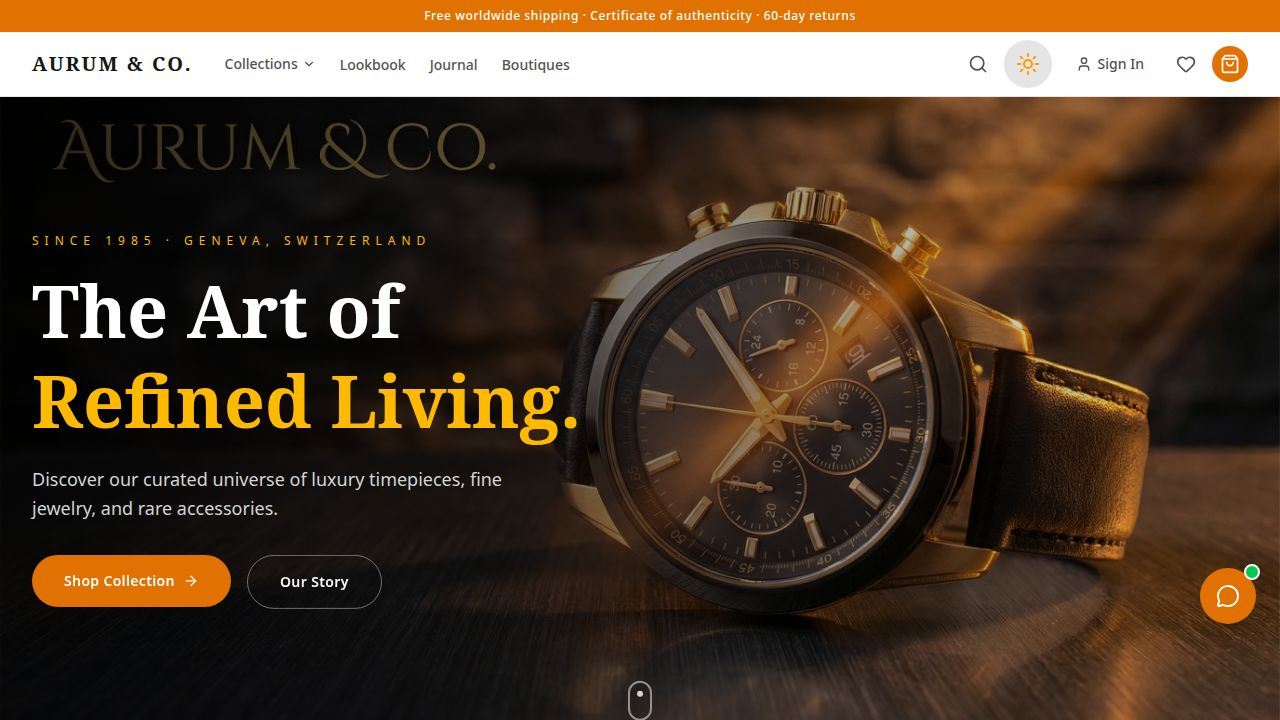
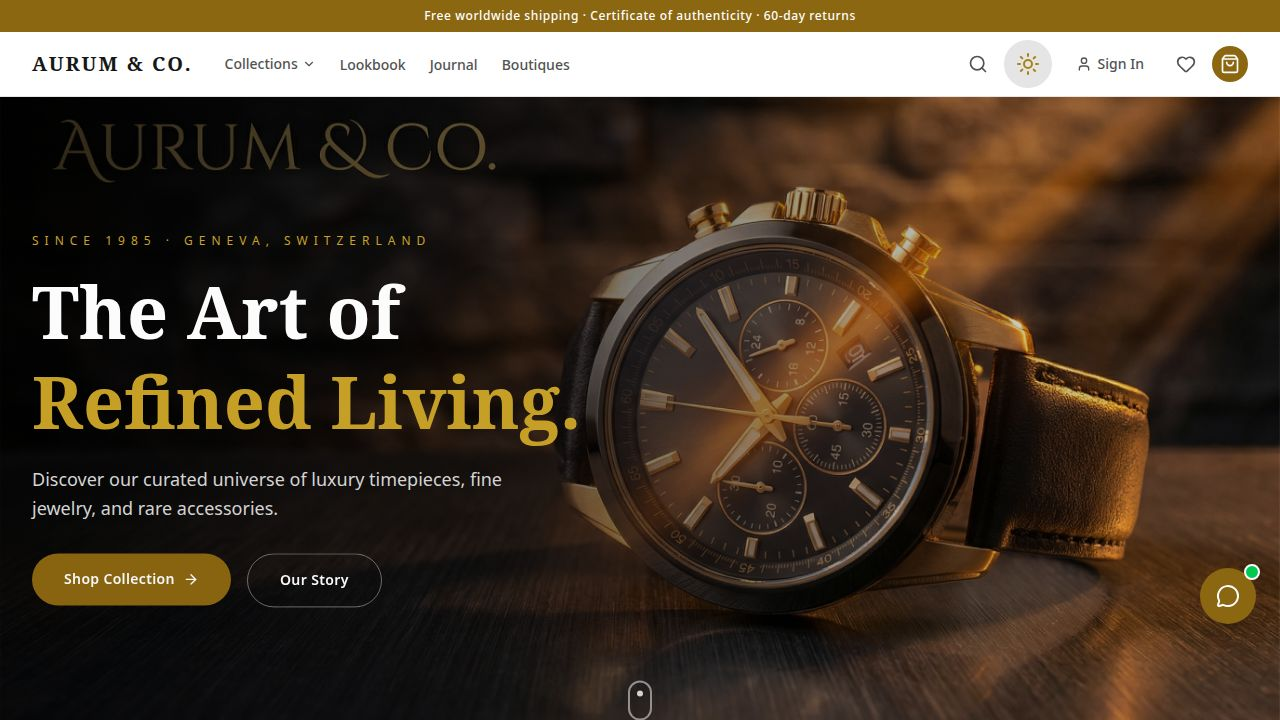
Update website to use luxurious champagne gold color palette and fix broken images
Update CSS to replace the default amber color palette with champagne gold tones, fix broken product images in mock data, and adjust the scroll icon visibility on different screen sizes.

Replit-Commit-Author: Agent
Replit-Commit-Session-Id: b158a743-d335-40f8-9beb-02c56269ad85
Replit-Commit-Checkpoint-Type: full_checkpoint
Replit-Commit-Event-Id: 98cac0a6-c772-4561-abb9-fbe2dbf7f0b9
Replit-Commit-Screenshot-Url: https://storage.googleapis.com/screenshot-production-us-central1/d30554d2-2318-4b7c-b613-bb9a6e5d661a/b158a743-d335-40f8-9beb-02c56269ad85/zudojkU
Replit-Helium-Checkpoint-Created: true

diff --git a/artifacts/luxury-watch/src/index.css b/artifacts/luxury-watch/src/index.css
@@ -3,7 +3,24 @@
 
 @custom-variant dark (&:is(.dark *));
 
-@theme inline {
+/* ═══════════════════════════════════════════════
+   CHAMPAGNE GOLD — replaces orange/amber palette
+   Brand colors: muted, sophisticated, luxurious
+═══════════════════════════════════════════════ */
+@theme {
+  --color-amber-50:  #fdf8ee;
+  --color-amber-100: #f6e9c4;
+  --color-amber-200: #ecd28a;
+  --color-amber-300: #ddb84d;
+  --color-amber-400: #c9a227;
+  --color-amber-500: #aa8318;
+  --color-amber-600: #8c6712;
+  --color-amber-700: #6e4f0f;
+  --color-amber-800: #573d0d;
+  --color-amber-900: #46300c;
+  --color-amber-950: #271806;
+
+  /* Theme tokens */
   --color-background: hsl(var(--background));
   --color-foreground: hsl(var(--foreground));
   --color-border: hsl(var(--border));
@@ -37,16 +54,16 @@
   --card-foreground: 0 0% 9%;
   --muted: 0 0% 96%;
   --muted-foreground: 0 0% 45%;
-  --primary: 38 92% 43%;
+  --primary: 43 74% 46%;        /* Champagne Gold */
   --primary-foreground: 0 0% 100%;
   --secondary: 0 0% 96%;
   --secondary-foreground: 0 0% 9%;
-  --accent: 38 92% 43%;
+  --accent: 43 74% 46%;
   --accent-foreground: 0 0% 100%;
   --destructive: 0 84% 60%;
   --destructive-foreground: 0 0% 100%;
   --input: 0 0% 89%;
-  --ring: 38 92% 43%;
+  --ring: 43 74% 46%;
   --popover: 0 0% 100%;
   --popover-foreground: 0 0% 9%;
   --radius: 0.5rem;
@@ -61,16 +78,16 @@
   --card-foreground: 0 0% 96%;
   --muted: 0 0% 15%;
   --muted-foreground: 0 0% 64%;
-  --primary: 38 92% 50%;
+  --primary: 43 68% 52%;        /* Lighter champagne for dark mode */
   --primary-foreground: 0 0% 100%;
   --secondary: 0 0% 15%;
   --secondary-foreground: 0 0% 96%;
-  --accent: 38 92% 50%;
+  --accent: 43 68% 52%;
   --accent-foreground: 0 0% 100%;
   --destructive: 0 63% 31%;
   --destructive-foreground: 0 0% 96%;
   --input: 0 0% 20%;
-  --ring: 38 92% 50%;
+  --ring: 43 68% 52%;
   --popover: 0 0% 9%;
   --popover-foreground: 0 0% 96%;
   --gallery-bg: #1a1a1a;
@@ -89,65 +106,33 @@
 }
 
 /* Custom scrollbar */
-::-webkit-scrollbar {
-  width: 8px;
-  height: 8px;
-}
-::-webkit-scrollbar-track {
-  background: transparent;
-}
-::-webkit-scrollbar-thumb {
-  background: #d4d4d4;
-  border-radius: 4px;
-}
-::-webkit-scrollbar-thumb:hover {
-  background: #a3a3a3;
-}
-.dark ::-webkit-scrollbar-thumb {
-  background: #404040;
-}
-.dark ::-webkit-scrollbar-thumb:hover {
-  background: #525252;
-}
+::-webkit-scrollbar { width: 8px; height: 8px; }
+::-webkit-scrollbar-track { background: transparent; }
+::-webkit-scrollbar-thumb { background: #d4d4d4; border-radius: 4px; }
+::-webkit-scrollbar-thumb:hover { background: #a3a3a3; }
+.dark ::-webkit-scrollbar-thumb { background: #404040; }
+.dark ::-webkit-scrollbar-thumb:hover { background: #525252; }
 
 /* Remove number input spinners */
 input[type='number']::-webkit-inner-spin-button,
-input[type='number']::-webkit-outer-spin-button {
-  -webkit-appearance: none;
-  margin: 0;
-}
-input[type='number'] {
-  -moz-appearance: textfield;
-}
+input[type='number']::-webkit-outer-spin-button { -webkit-appearance: none; margin: 0; }
+input[type='number'] { -moz-appearance: textfield; }
 
-/* Focus visible styles */
-*:focus-visible {
-  outline: 2px solid #d97706;
-  outline-offset: 2px;
-}
-.dark *:focus-visible {
-  outline-color: #fbbf24;
-}
+/* Focus visible styles — champagne gold */
+*:focus-visible { outline: 2px solid #8c6712; outline-offset: 2px; }
+.dark *:focus-visible { outline-color: #c9a227; }
 
-/* Selection styles */
-::selection {
-  background-color: #fcd34d;
-  color: #1c1917;
-}
-.dark ::selection {
-  background-color: #b45309;
-  color: #fef3c7;
-}
+/* Selection styles — champagne gold */
+::selection { background-color: #ecd28a; color: #1c1917; }
+.dark ::selection { background-color: #6e4f0f; color: #fdf8ee; }
 
 @keyframes fade-in {
   from { opacity: 0; }
   to { opacity: 1; }
 }
-
 @keyframes slide-up {
   from { opacity: 0; transform: translateY(10px); }
   to { opacity: 1; transform: translateY(0); }
 }
-
 .animate-fade-in { animation: fade-in 0.3s ease-out; }
 .animate-slide-up { animation: slide-up 0.4s ease-out; }

diff --git a/artifacts/luxury-watch/src/data/mockData.ts b/artifacts/luxury-watch/src/data/mockData.ts
@@ -75,9 +75,9 @@ const jewelryImages = [
   'https://images.unsplash.com/photo-1515562141207-7a88fb7ce338?w=800&q=80',
   'https://images.unsplash.com/photo-1599643478518-a784e5dc4c8f?w=800&q=80',
   'https://images.unsplash.com/photo-1535632066927-ab7c9ab60908?w=800&q=80',
-  'https://images.unsplash.com/photo-1573408301185-9519f94816b5?w=800&q=80',
-  'https://images.unsplash.com/photo-1602751584552-8ba73aad10e1?w=800&q=80',
-  'https://images.unsplash.com/photo-1611085583191-a3b181a88401?w=800&q=80',
+  'https://images.unsplash.com/photo-1585386959984-a4155224a1ad?w=800&q=80',
+  'https://images.unsplash.com/photo-1617038260897-41a1f14a8ca0?w=800&q=80',
+  'https://images.unsplash.com/photo-1611591437281-460bfbe1220a?w=800&q=80',
 ];
 
 const accessoryImages = [
@@ -98,7 +98,7 @@ const leatherImages = [
   'https://images.unsplash.com/photo-1548036328-c9fa89d128fa?w=800&q=80',
   'https://images.unsplash.com/photo-1590874103328-eac38a683ce7?w=800&q=80',
   'https://images.unsplash.com/photo-1584917865442-de89df76afd3?w=800&q=80',
-  'https://images.unsplash.com/photo-1566150905458-1bf1a63db8a0?w=800&q=80',
+  'https://images.unsplash.com/photo-1614252369475-531eba835eb1?w=800&q=80',
 ];
 
 export const products: Product[] = [

diff --git a/artifacts/luxury-watch/src/pages/HomePage.tsx b/artifacts/luxury-watch/src/pages/HomePage.tsx
@@ -60,7 +60,7 @@ export default function HomePage() {
             </motion.div>
           </div>
         </div>
-        <div className="absolute bottom-8 left-1/2 -translate-x-1/2">
+        <div className="absolute bottom-8 left-1/2 -translate-x-1/2 hidden md:block">
           <motion.div animate={{ y: [0, 8, 0] }} transition={{ repeat: Infinity, duration: 2 }}
             className="w-6 h-10 rounded-full border-2 border-white/50 flex items-start justify-center pt-2">
             <div className="w-1.5 h-1.5 rounded-full bg-white/80" />
